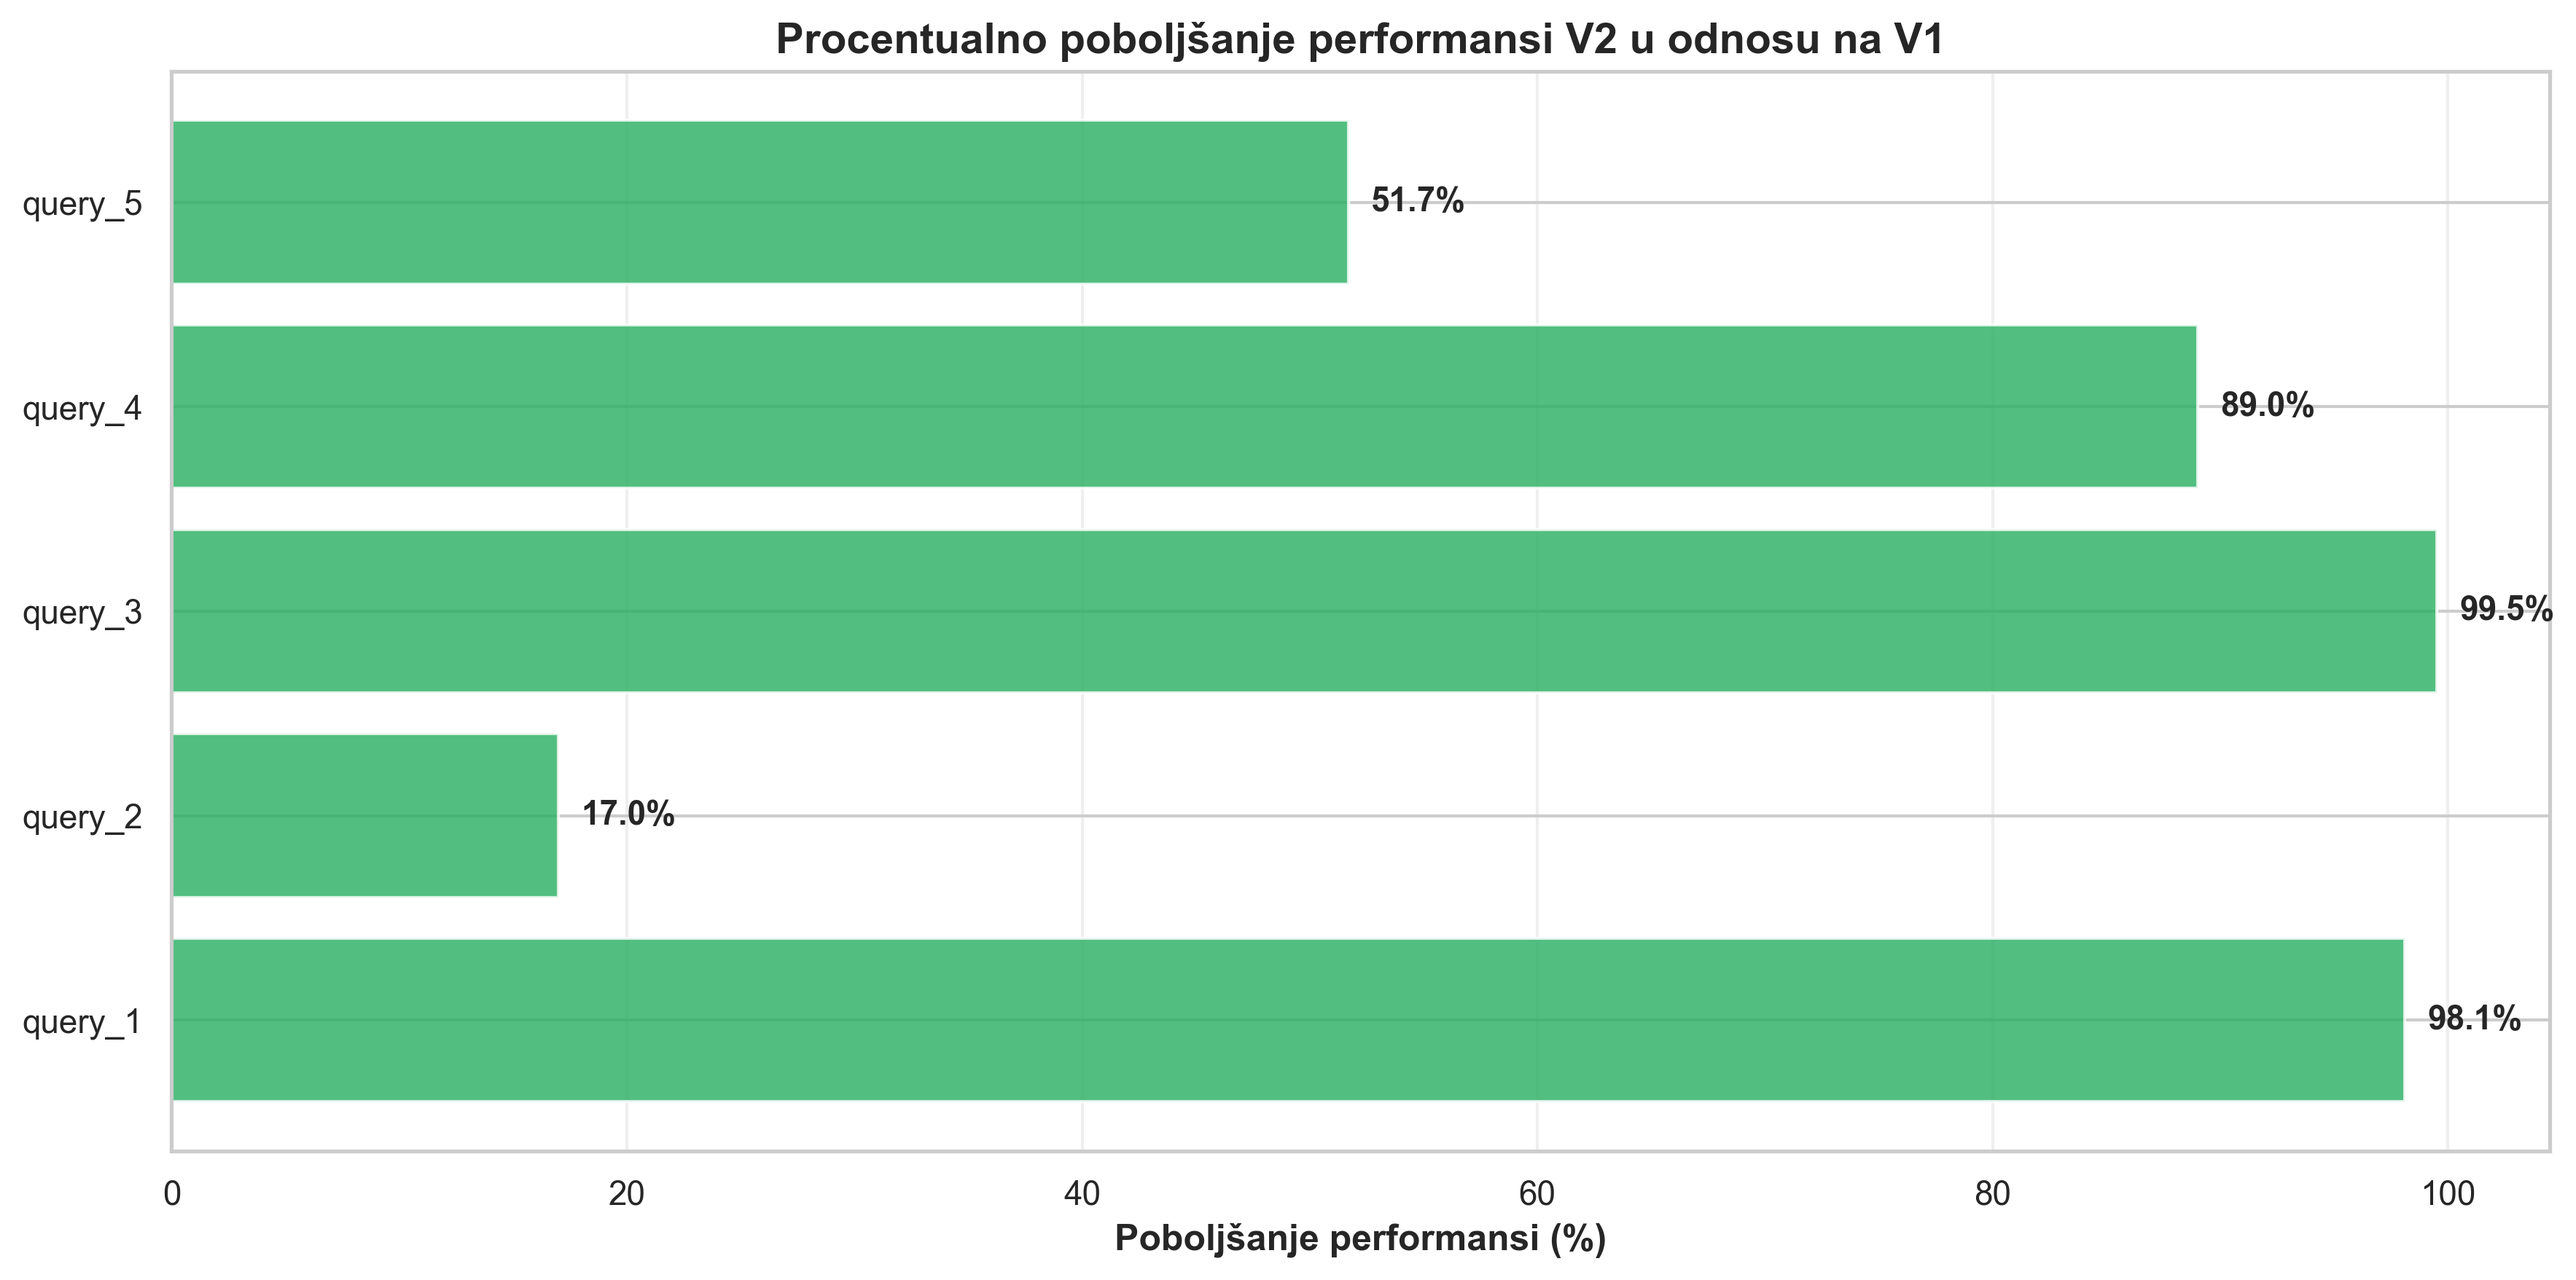
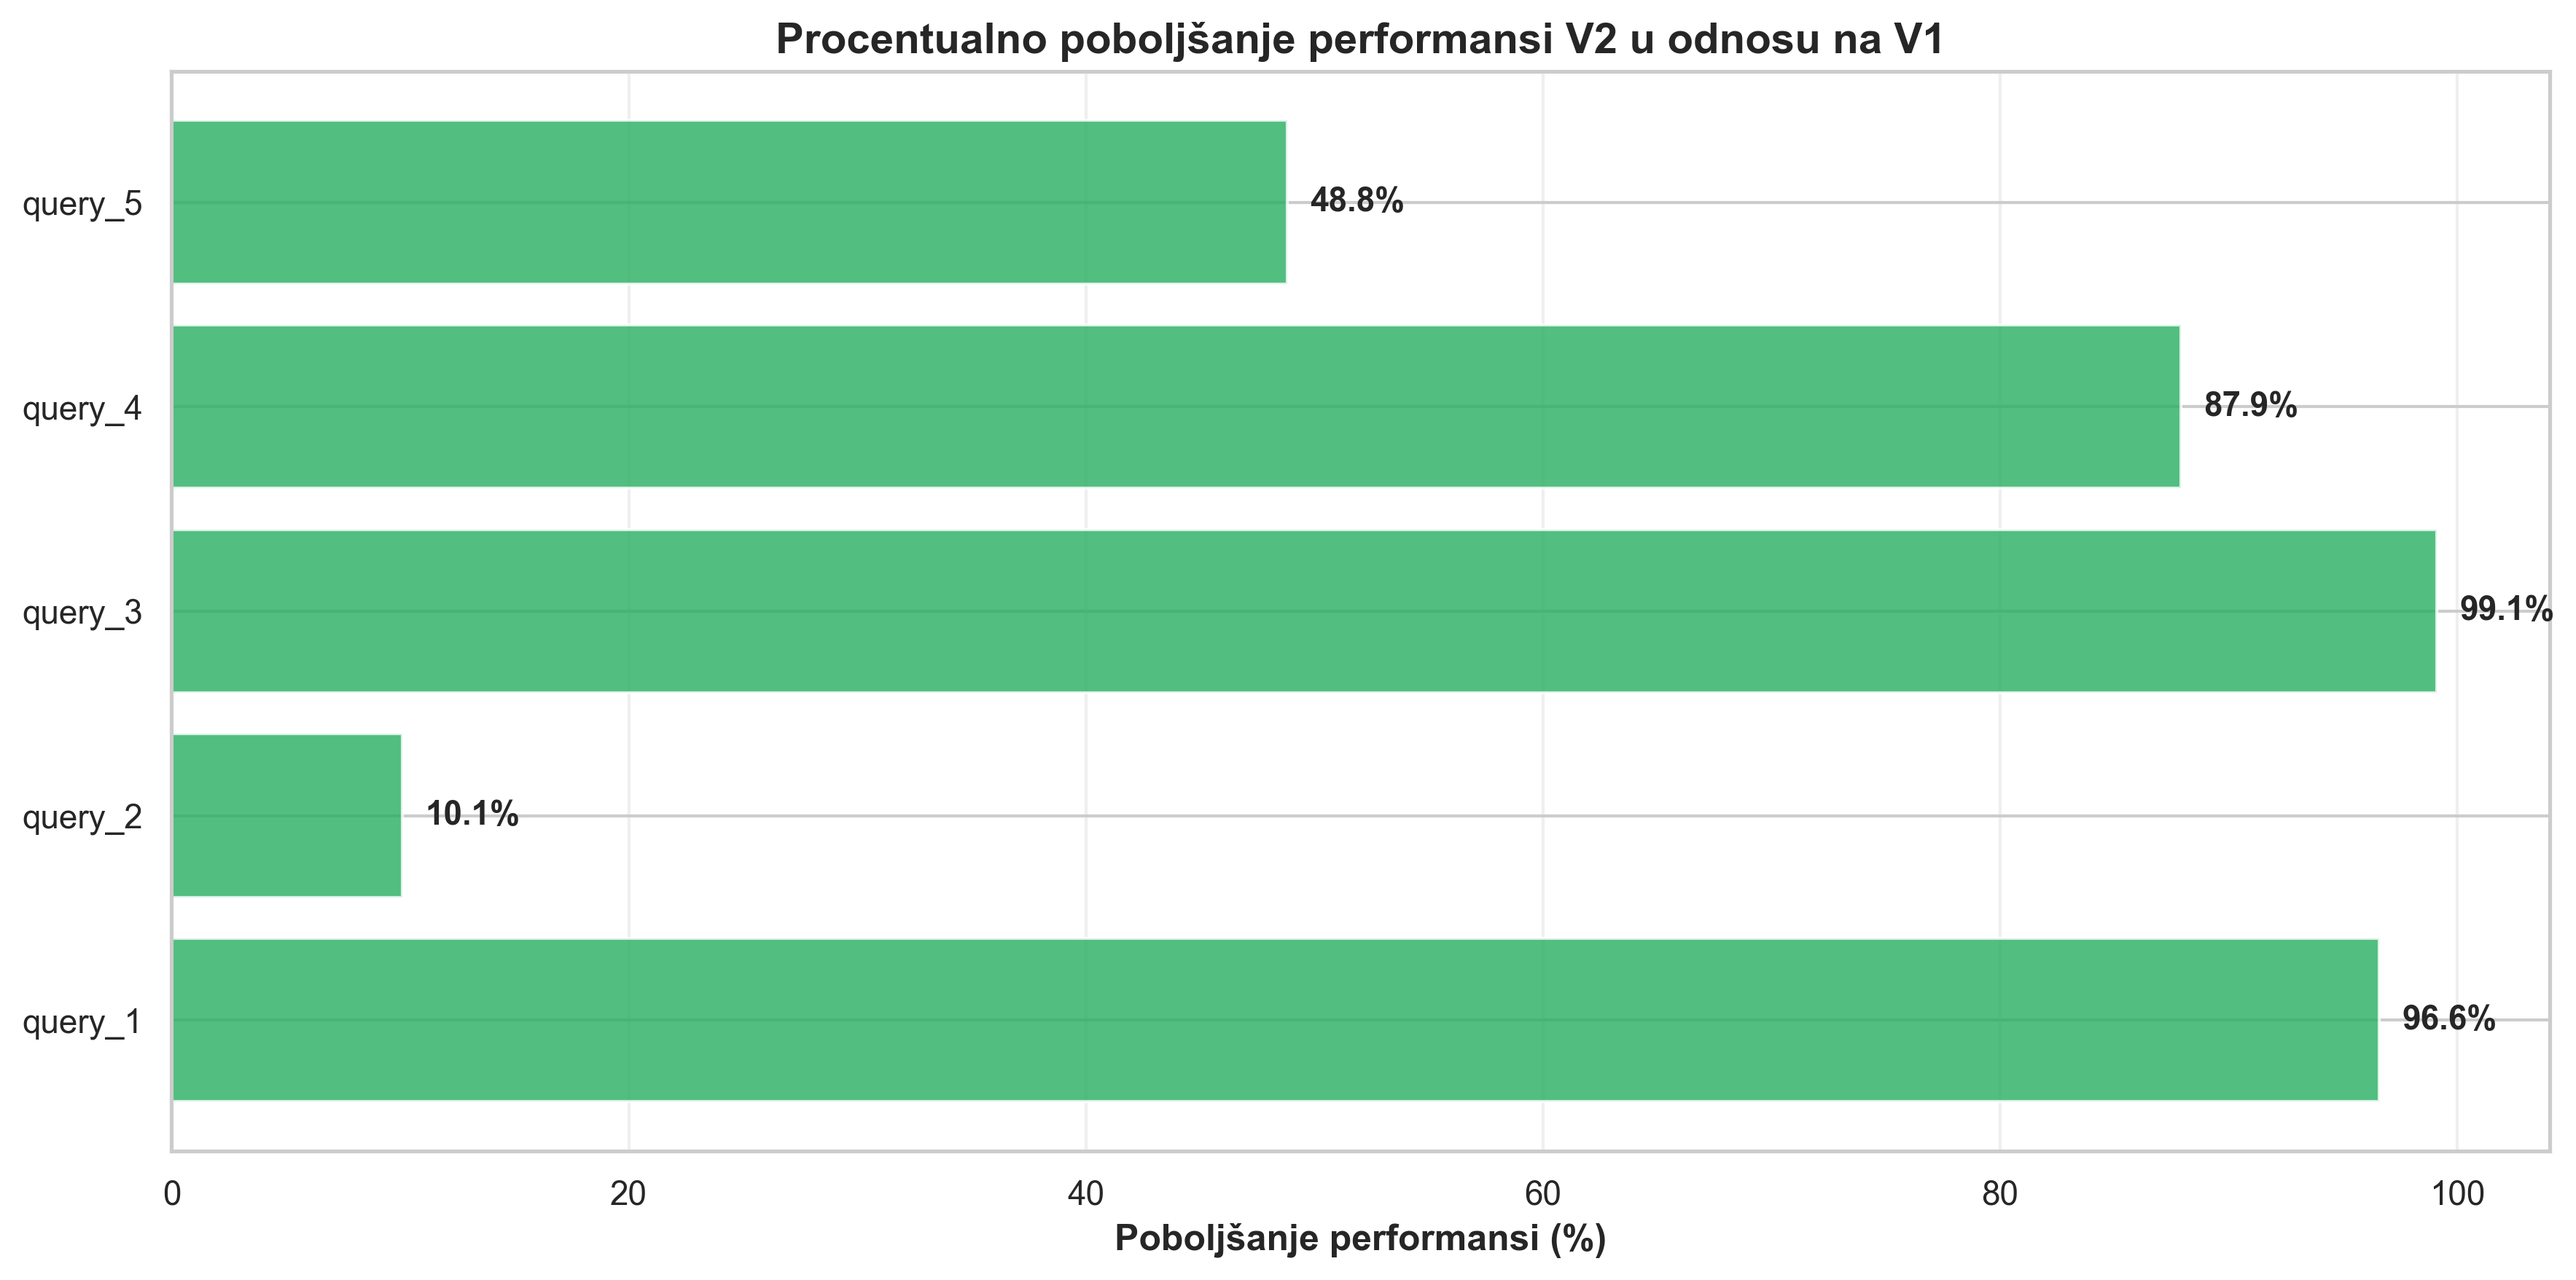
fix query 5

diff --git a/v2/scripts/performance_comparison.py b/v2/scripts/performance_comparison.py
@@ -63,18 +63,18 @@ class PerformanceComparator:
         ], allowDiskUse=True)
     
     def query_1_v2(self, collection):
-        """V2 - OPTIMIZED: Budget category + ROI calculation"""
+        """V2 - OPTIMIZED: Budget category + compound index"""
         return collection.aggregate([
             {'$match': {
-                'financial.budget_category': {'$in': ['high', 'blockbuster']}
+                'financial.budget_category': {'$in': ['high', 'blockbuster']},
+                'financial.revenue': {'$gt': 0}
             }},
             {'$unwind': '$production.companies'},
             {'$group': {
                 '_id': '$production.companies',
                 'avg_revenue': {'$avg': '$financial.revenue'},
                 'total_movies': {'$sum': 1},
-                'total_revenue': {'$sum': '$financial.revenue'},
-                'avg_roi': {'$avg': '$financial.roi'}
+                'total_revenue': {'$sum': '$financial.revenue'}
             }},
             {'$sort': {'avg_revenue': -1}},
             {'$limit': 20}
@@ -113,21 +113,21 @@ class PerformanceComparator:
         """V2 - OPTIMIZED: Precomputed decade field"""
         return collection.aggregate([
             {'$match': {
-                'release_info.decade': {'$exists': True, '$ne': None}, 
+                'release_info.decade': {'$exists': True, '$ne': None},
                 'ratings.vote_average': {'$gt': 0}
             }},
             {'$unwind': '$content_info.genres'},
             {'$group': {
                 '_id': {
-                    'genre': '$content_info.genres', 
+                    'genre': '$content_info.genres',
                     'decade': '$release_info.decade'
                 },
                 'avg_rating': {'$avg': '$ratings.vote_average'},
                 'movie_count': {'$sum': 1}
             }},
             {'$sort': {
-                '_id.decade': 1,
-                '_id.genre': 1
+                '_id.genre': 1,
+                '_id.decade': 1
             }}
         ], allowDiskUse=True)
     
@@ -152,7 +152,7 @@ class PerformanceComparator:
         """V2 - OPTIMIZED: Budget category + denormalized month"""
         return collection.aggregate([
             {'$match': {
-                'financial.budget_category': 'blockbuster', 
+                'financial.budget_category': 'blockbuster',
                 'release_info.month': {'$exists': True, '$ne': None}
             }},
             {'$group': {
@@ -161,7 +161,28 @@ class PerformanceComparator:
                 'avg_budget': {'$avg': '$financial.budget'},
                 'total_revenue': {'$sum': '$financial.revenue'}
             }},
-            {'$sort': {'blockbuster_count': -1}}
+            {'$sort': {'blockbuster_count': -1}},
+            {'$addFields': {
+                'month_name': {
+                    '$switch': {
+                        'branches': [
+                            {'case': {'$eq': ['$_id', 1]}, 'then': 'Januar'},
+                            {'case': {'$eq': ['$_id', 2]}, 'then': 'Februar'},
+                            {'case': {'$eq': ['$_id', 3]}, 'then': 'Mart'},
+                            {'case': {'$eq': ['$_id', 4]}, 'then': 'April'},
+                            {'case': {'$eq': ['$_id', 5]}, 'then': 'Maj'},
+                            {'case': {'$eq': ['$_id', 6]}, 'then': 'Jun'},
+                            {'case': {'$eq': ['$_id', 7]}, 'then': 'Jul'},
+                            {'case': {'$eq': ['$_id', 8]}, 'then': 'Avgust'},
+                            {'case': {'$eq': ['$_id', 9]}, 'then': 'Septembar'},
+                            {'case': {'$eq': ['$_id', 10]}, 'then': 'Oktobar'},
+                            {'case': {'$eq': ['$_id', 11]}, 'then': 'Novembar'},
+                            {'case': {'$eq': ['$_id', 12]}, 'then': 'Decembar'}
+                        ],
+                        'default': 'Nepoznato'
+                    }
+                }
+            }}
         ], allowDiskUse=True)
     
     # QUERY 4: Most Profitable Genre Combinations
@@ -197,22 +218,24 @@ class PerformanceComparator:
         ], allowDiskUse=True)
     
     def query_4_v2(self, collection):
-        """V2 - OPTIMIZED: Precomputed genre_pairs + profit/roi"""
+        """V2 - OPTIMIZED: Precomputed sorted_genres + profit/roi"""
         return collection.aggregate([
             {'$match': {
-                'financial.is_profitable': True, 
-                'content_info.genre_pairs': {'$exists': True, '$ne': []}
+                'financial.revenue': {'$gt': 0},
+                'financial.budget': {'$gt': 0},
+                'content_info.sorted_genres': {'$exists': True, '$ne': []}
             }},
-            {'$unwind': '$content_info.genre_pairs'},
             {'$group': {
-                '_id': '$content_info.genre_pairs',
+                '_id': '$content_info.sorted_genres',
                 'avg_profit': {'$avg': '$financial.profit'},
                 'avg_roi': {'$avg': '$financial.roi'},
                 'total_profit': {'$sum': '$financial.profit'},
                 'movie_count': {'$sum': 1}
             }},
-            {'$match': {'movie_count': {'$gte': 10}}},
-            {'$sort': {'avg_roi': -1}},
+            {'$match': {
+                'movie_count': {'$gte': 10}
+            }},
+            {'$sort': {'avg_profit': -1}},
             {'$limit': 20}
         ], allowDiskUse=True)
     
@@ -234,11 +257,12 @@ class PerformanceComparator:
         ], allowDiskUse=True)
     
     def query_5_v2(self, collection):
-        """V2 - OPTIMIZED: Quality tier index (excellent only)"""
+        """V2 - OPTIMIZED: Quality tier index + compound index"""
         return collection.aggregate([
             {'$match': {
-                'ratings.quality_tier': 'excellent', 
-                'content_info.runtime': {'$gt': 0}
+                'ratings.quality_tier': 'excellent',
+                'content_info.runtime': {'$gt': 0},
+                'production.countries': {'$exists': True, '$ne': []}
             }},
             {'$unwind': '$production.countries'},
             {'$group': {
